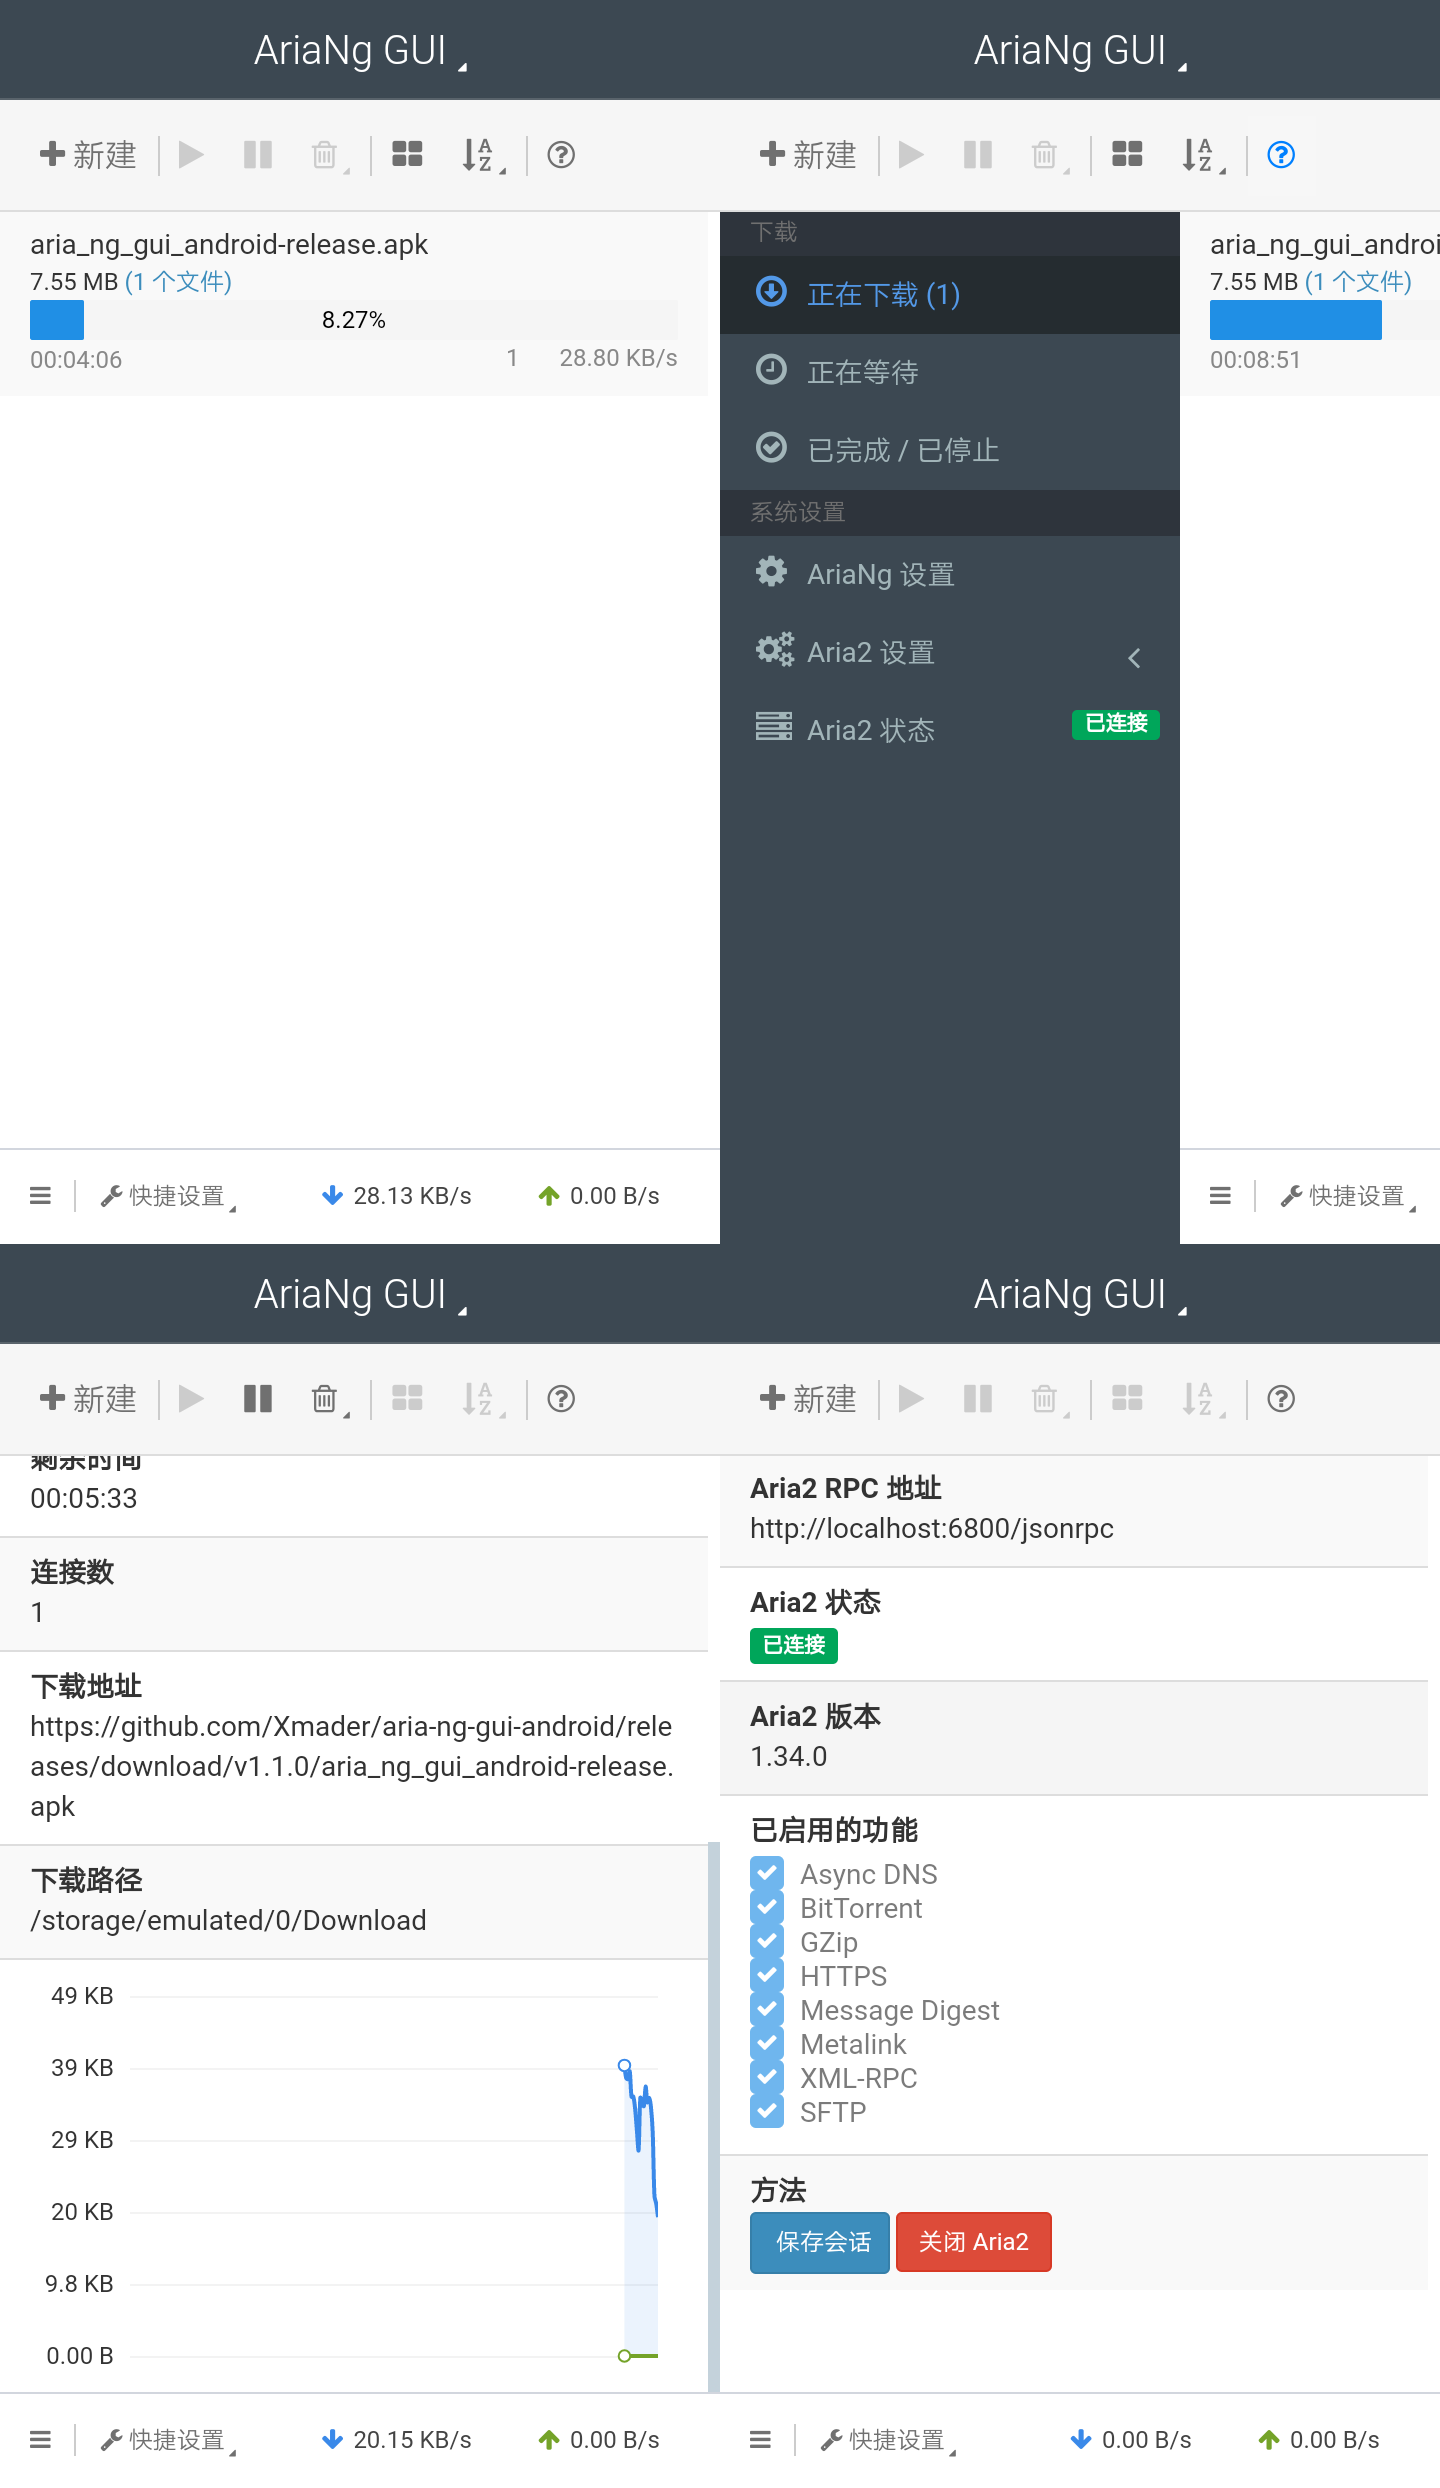
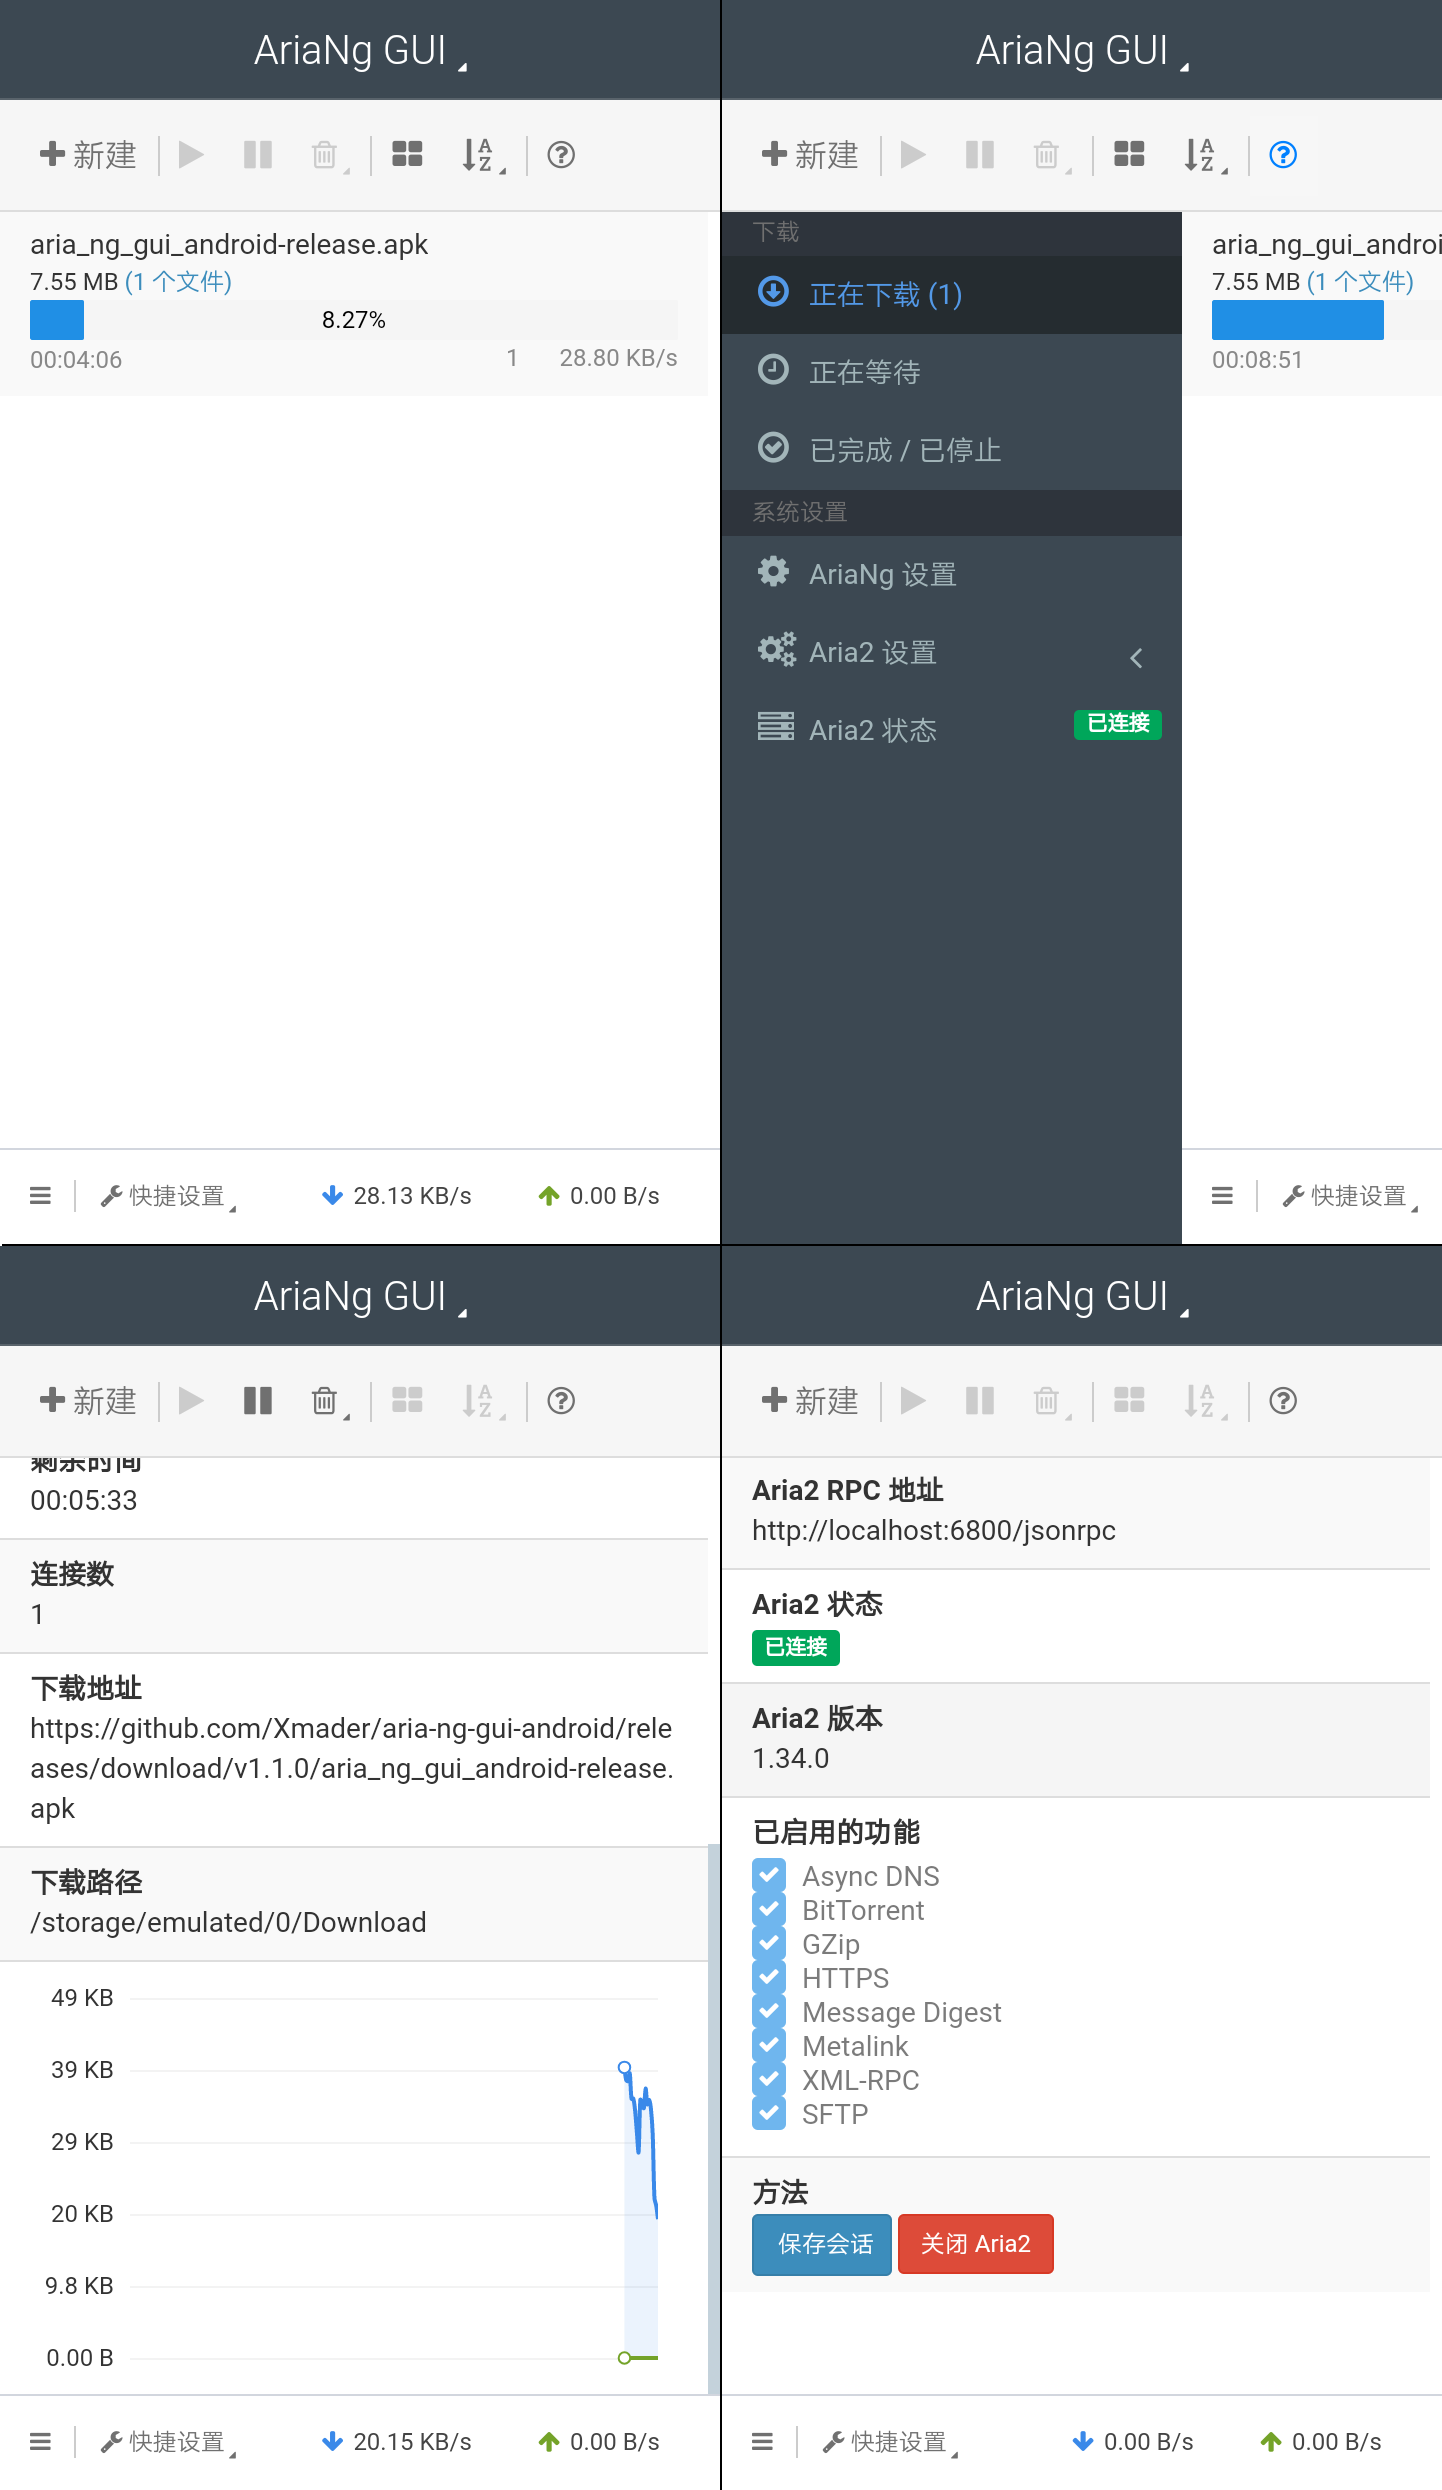
增加屏幕截图

diff --git a/README.md b/README.md
@@ -50,7 +50,5 @@
 
 [点我查看](img/)
 
-![](img/Screenshot_0.png)
-![](img/Screenshot_3.png)
-![](img/Screenshot_10.png)
-![](img/Screenshot_20.png)
+![](img/Screenshot_merged.png)
+
